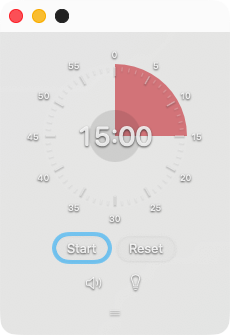
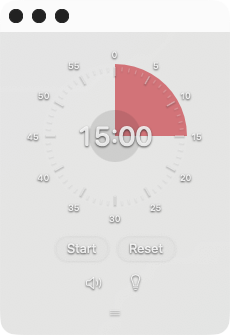
assets: retake timer screenshot without button focus ring (#2)

Changed region(s): [[0.213, 0.6866, 0.487, 0.806], [0.0304, 0.0299, 0.213, 0.0896]]

diff --git a/PROJECT_STATUS.md b/PROJECT_STATUS.md
@@ -5,3 +5,5 @@ Checked 2026-11-16. Standalone native timer implemented; publication authorized 
 Executed: 8 unit/model/persistence tests, release bundle build, native dial mouse drag to 15 minutes, sound/blink preference toggles, start/pause, upper-frame drag, close leaving the menu bar alive, relaunch persistence, reset and live phase completion. Actual screenshot in docs/timer.png inspected by the builder. Independent source review completed; the run-loop finding was fixed by registering the ticker in common modes. Clock-change recovery and full release matrix are documented in docs/ACCEPTANCE_DEBT.md.
 
 The bundle is unsigned and is a development artifact, not an accepted distribution release. Website: https://systemerror.app/products/pomodoro/ . Next: select reuse terms if desired and schedule a separate fresh-evaluator release run before distributing binaries.
+
+Screenshot refresh 2026-11-16: docs/timer.png was retaken from the isolated native timer at 15:00 after returning keyboard focus to the previously active app. Builder inspected the new 230×335 capture and confirmed no blue button focus ring. PNG SHA-256: ac4b92af81d68128aced36d106b4cc50aee100283411973aec5e64bb990ff44a. App code, controls and keyboard-focus styling are unchanged. This is a new native window capture; both website backgrounds use the same image.
